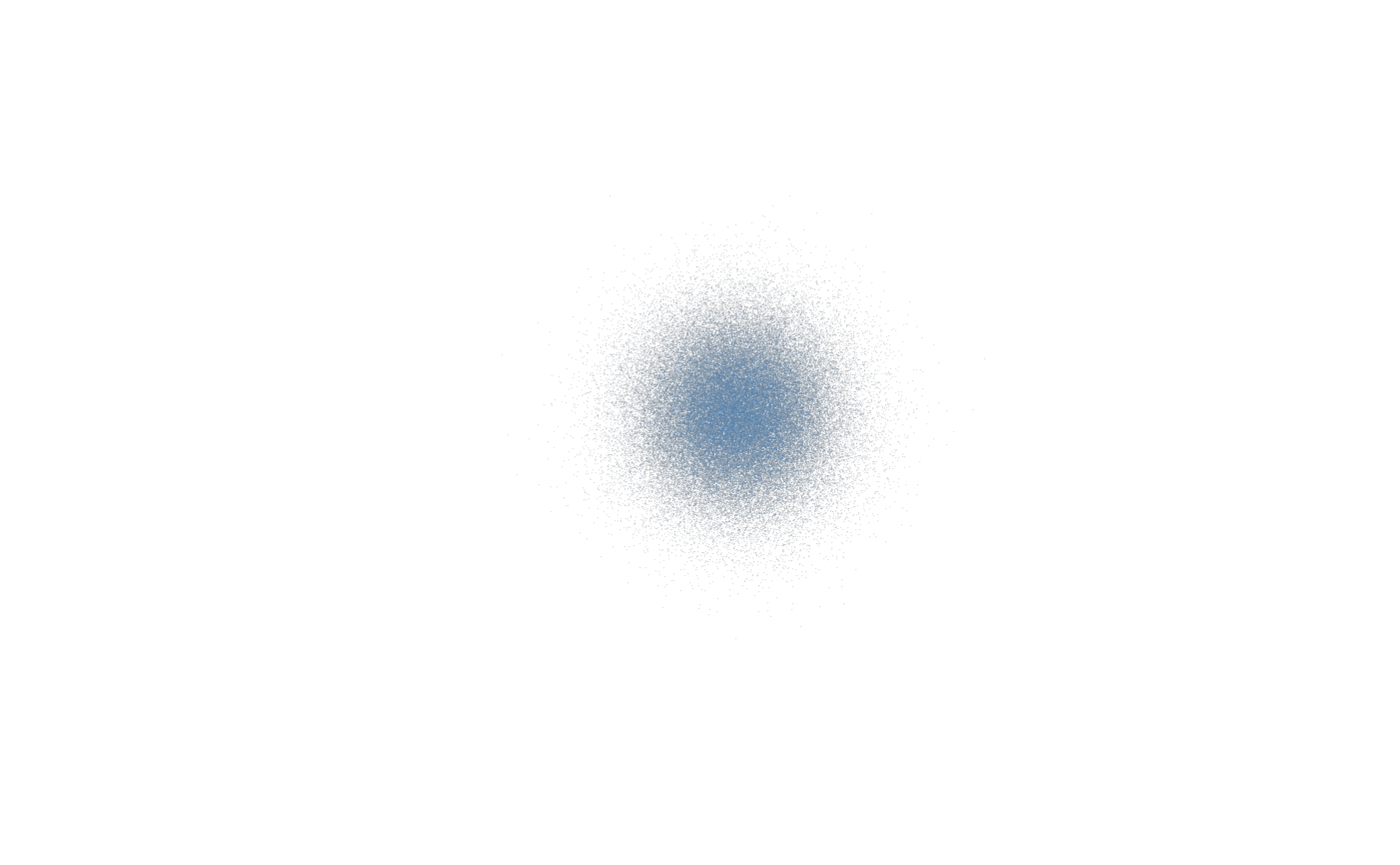
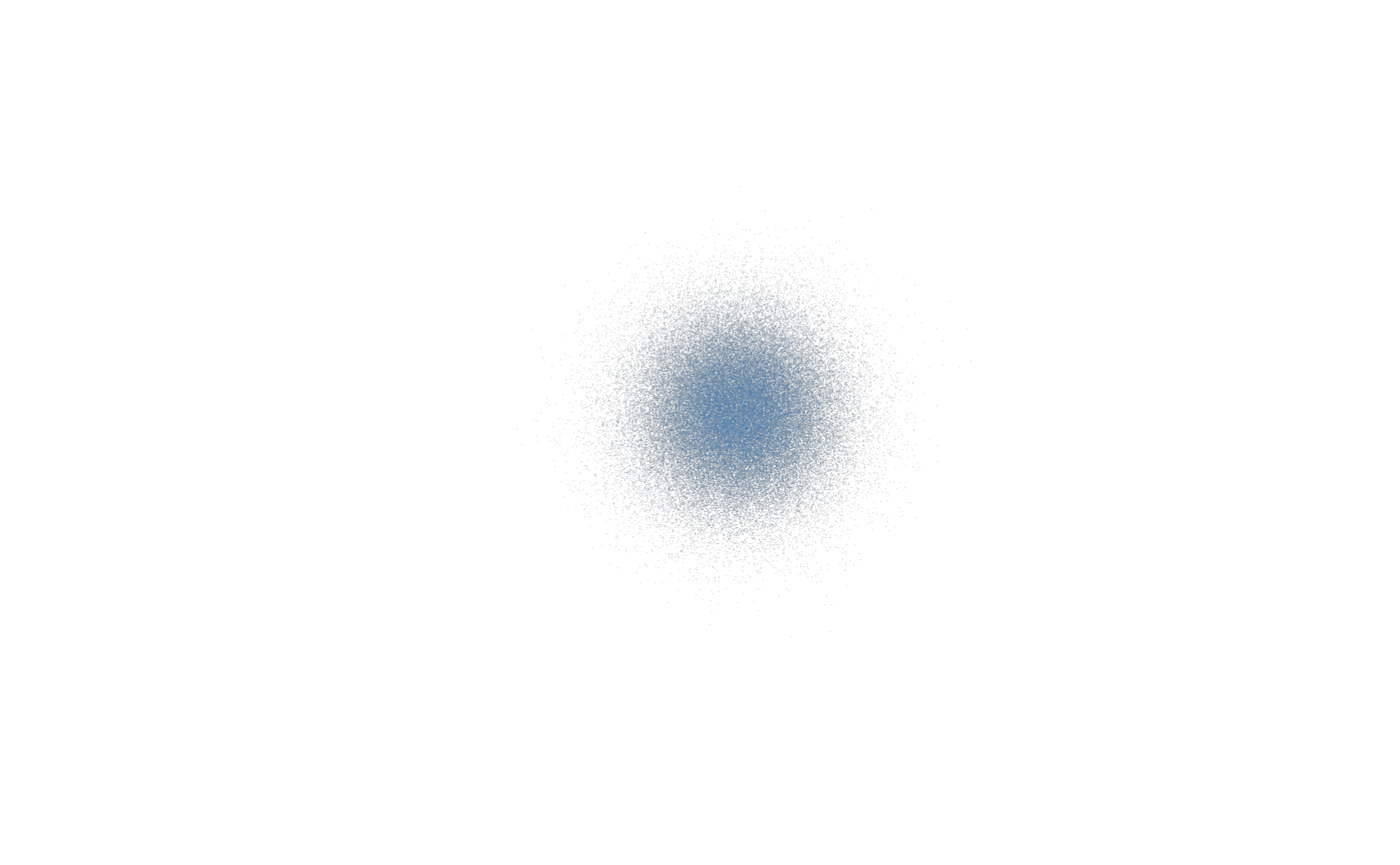
Built site for scattermore2: 0.0.0.9000@f6dd214

Changed region(s): [[0.43, 0.3121, 0.6143, 0.6243]]

diff --git a/articles/points.html b/articles/points.html
@@ -114,13 +114,24 @@
 <h2 id="colorize-data-with-palette">Colorize data with palette<a class="anchor" aria-label="anchor" href="#colorize-data-with-palette"></a>
 </h2>
 <div class="sourceCode" id="cb5"><pre class="downlit sourceCode r">
-<code class="sourceCode R"><span class="va">m</span> <span class="op">=</span> <span class="fu"><a href="https://rdrr.io/r/base/rep.html" class="external-link">rep</a></span><span class="op">(</span><span class="fu"><a href="https://rdrr.io/r/base/c.html" class="external-link">c</a></span><span class="op">(</span><span class="fl">0</span>,<span class="fl">1</span>,<span class="fl">2</span>,<span class="fl">3</span><span class="op">)</span>, each<span class="op">=</span><span class="fl">25000</span><span class="op">)</span>
-<span class="va">v</span> <span class="op">=</span> <span class="fu"><a href="https://rdrr.io/r/base/c.html" class="external-link">c</a></span><span class="op">(</span><span class="fl">255</span>, <span class="fl">0</span>, <span class="fl">0</span>, <span class="fl">100</span>, <span class="fl">0</span>, <span class="fl">255</span>, <span class="fl">0</span>, <span class="fl">25</span>, <span class="fl">0</span>, <span class="fl">0</span>, <span class="fl">255</span>, <span class="fl">50</span>, <span class="fl">0</span>, <span class="fl">0</span>, <span class="fl">0</span>, <span class="fl">100</span><span class="op">)</span>
-<span class="va">p</span> <span class="op">=</span> <span class="fu"><a href="https://rdrr.io/r/base/array.html" class="external-link">array</a></span><span class="op">(</span><span class="va">v</span>, <span class="fu"><a href="https://rdrr.io/r/base/c.html" class="external-link">c</a></span><span class="op">(</span><span class="fl">4</span>, <span class="fl">4</span><span class="op">)</span><span class="op">)</span>
-<span class="va">rgbwt</span> <span class="op">&lt;-</span> <span class="fu"><a href="../reference/scatter_points_rgbwt.html">scatter_points_rgbwt</a></span><span class="op">(</span><span class="va">points</span>, map <span class="op">=</span> <span class="va">m</span>, palette <span class="op">=</span> <span class="va">p</span>, xlim<span class="op">=</span><span class="fu"><a href="https://rdrr.io/r/base/c.html" class="external-link">c</a></span><span class="op">(</span><span class="op">-</span><span class="fl">5</span>,<span class="fl">5</span><span class="op">)</span>, ylim<span class="op">=</span><span class="fu"><a href="https://rdrr.io/r/base/c.html" class="external-link">c</a></span><span class="op">(</span><span class="op">-</span><span class="fl">5</span>,<span class="fl">5</span><span class="op">)</span><span class="op">)</span>
+<code class="sourceCode R"><span class="va">v</span> <span class="op">&lt;-</span> <span class="fu"><a href="https://rdrr.io/r/base/c.html" class="external-link">c</a></span><span class="op">(</span><span class="fl">255</span>, <span class="fl">0</span>, <span class="fl">0</span>, <span class="fl">100</span>, <span class="fl">0</span>, <span class="fl">255</span>, <span class="fl">0</span>, <span class="fl">25</span>, <span class="fl">0</span>, <span class="fl">0</span>, <span class="fl">255</span>, <span class="fl">50</span>, <span class="fl">0</span>, <span class="fl">0</span>, <span class="fl">0</span>, <span class="fl">100</span><span class="op">)</span>
+<span class="va">palette</span> <span class="op">&lt;-</span> <span class="fu"><a href="https://rdrr.io/r/base/array.html" class="external-link">array</a></span><span class="op">(</span><span class="va">v</span>, <span class="fu"><a href="https://rdrr.io/r/base/c.html" class="external-link">c</a></span><span class="op">(</span><span class="fl">4</span>, <span class="fl">4</span><span class="op">)</span><span class="op">)</span>
+<span class="va">map</span> <span class="op">&lt;-</span> <span class="fu"><a href="https://rdrr.io/r/base/rep.html" class="external-link">rep</a></span><span class="op">(</span><span class="fu"><a href="https://rdrr.io/r/base/c.html" class="external-link">c</a></span><span class="op">(</span><span class="fl">0</span>,<span class="fl">1</span>,<span class="fl">2</span>,<span class="fl">3</span><span class="op">)</span>, each<span class="op">=</span><span class="fl">25000</span><span class="op">)</span>
+<span class="va">rgbwt</span> <span class="op">&lt;-</span> <span class="fu"><a href="../reference/scatter_points_rgbwt.html">scatter_points_rgbwt</a></span><span class="op">(</span><span class="va">points</span>, map <span class="op">=</span> <span class="va">map</span>, palette <span class="op">=</span> <span class="va">palette</span>, xlim<span class="op">=</span><span class="fu"><a href="https://rdrr.io/r/base/c.html" class="external-link">c</a></span><span class="op">(</span><span class="op">-</span><span class="fl">5</span>,<span class="fl">5</span><span class="op">)</span>, ylim<span class="op">=</span><span class="fu"><a href="https://rdrr.io/r/base/c.html" class="external-link">c</a></span><span class="op">(</span><span class="op">-</span><span class="fl">5</span>,<span class="fl">5</span><span class="op">)</span><span class="op">)</span>
 <span class="va">raster</span> <span class="op">&lt;-</span> <span class="fu"><a href="../reference/rgba_int_to_raster.html">rgba_int_to_raster</a></span><span class="op">(</span><span class="fu"><a href="../reference/rgbwt_to_rgba_int.html">rgbwt_to_rgba_int</a></span><span class="op">(</span><span class="va">rgbwt</span><span class="op">)</span><span class="op">)</span>
 <span class="fu"><a href="https://rdrr.io/r/graphics/plot.default.html" class="external-link">plot</a></span><span class="op">(</span><span class="va">raster</span><span class="op">)</span></code></pre></div>
 <p><img src="points_files/figure-html/unnamed-chunk-4-1.png" width="700"></p>
+</div>
+<div class="section level2">
+<h2 id="colorize-data-with-color-for-each-point">Colorize data with color for each point<a class="anchor" aria-label="anchor" href="#colorize-data-with-color-for-each-point"></a>
+</h2>
+<div class="sourceCode" id="cb6"><pre class="downlit sourceCode r">
+<code class="sourceCode R"><span class="va">v</span> <span class="op">=</span> <span class="fu"><a href="https://rdrr.io/r/base/c.html" class="external-link">c</a></span><span class="op">(</span><span class="fl">255</span>, <span class="fl">0</span>, <span class="fl">0</span>, <span class="fl">100</span>, <span class="fl">0</span>, <span class="fl">255</span>, <span class="fl">0</span>, <span class="fl">10</span>, <span class="fl">0</span>, <span class="fl">0</span>, <span class="fl">255</span>, <span class="fl">10</span>, <span class="fl">0</span>, <span class="fl">0</span>, <span class="fl">0</span>, <span class="fl">0</span><span class="op">)</span>
+<span class="va">colors</span> <span class="op">&lt;-</span> <span class="fu"><a href="https://rdrr.io/r/base/array.html" class="external-link">array</a></span><span class="op">(</span><span class="va">v</span>, <span class="fu"><a href="https://rdrr.io/r/base/c.html" class="external-link">c</a></span><span class="op">(</span><span class="fl">4</span>, <span class="fl">100000</span><span class="op">)</span><span class="op">)</span>
+<span class="va">rgbwt</span> <span class="op">&lt;-</span> <span class="fu"><a href="../reference/scatter_points_rgbwt.html">scatter_points_rgbwt</a></span><span class="op">(</span><span class="fu"><a href="https://rdrr.io/r/base/cbind.html" class="external-link">cbind</a></span><span class="op">(</span><span class="fu"><a href="https://rdrr.io/r/stats/Normal.html" class="external-link">rnorm</a></span><span class="op">(</span><span class="fl">1e5</span><span class="op">)</span>, <span class="fu"><a href="https://rdrr.io/r/stats/Normal.html" class="external-link">rnorm</a></span><span class="op">(</span><span class="fl">1e5</span><span class="op">)</span><span class="op">)</span>, RGBA <span class="op">=</span> <span class="va">colors</span><span class="op">)</span>
+<span class="va">raster</span> <span class="op">&lt;-</span> <span class="fu"><a href="../reference/rgba_int_to_raster.html">rgba_int_to_raster</a></span><span class="op">(</span><span class="fu"><a href="../reference/rgbwt_to_rgba_int.html">rgbwt_to_rgba_int</a></span><span class="op">(</span><span class="va">rgbwt</span><span class="op">)</span><span class="op">)</span>
+<span class="fu"><a href="https://rdrr.io/r/graphics/plot.default.html" class="external-link">plot</a></span><span class="op">(</span><span class="va">raster</span><span class="op">)</span></code></pre></div>
+<p><img src="points_files/figure-html/unnamed-chunk-5-1.png" width="700"></p>
 </div>
   </div>
 

diff --git a/index.html b/index.html
@@ -206,6 +206,7 @@
 <li><a href="https://github.com/Teri934/scattermore2/actions/workflows/R-CMD-check.yaml" class="external-link"><img src="https://github.com/Teri934/scattermore2/actions/workflows/R-CMD-check.yaml/badge.svg" alt="R-CMD-check"></a></li>
 <li><a href="https://github.com/Teri934/scattermore2/actions/workflows/pkgdown.yaml" class="external-link"><img src="https://github.com/Teri934/scattermore2/actions/workflows/pkgdown.yaml/badge.svg" alt="pkgdown"></a></li>
 <li><a href="https://github.com/Teri934/scattermore2/actions/workflows/test-coverage.yaml" class="external-link"><img src="https://github.com/Teri934/scattermore2/actions/workflows/test-coverage.yaml/badge.svg" alt="test-coverage"></a></li>
+<li><a href="https://codecov.io/gh/teri934/scattermore2" class="external-link"><img src="https://codecov.io/gh/teri934/scattermore2/branch/master/graph/badge.svg?token=3COU4T231C" alt="codecov"></a></li>
 </ul>
 </div>
 
